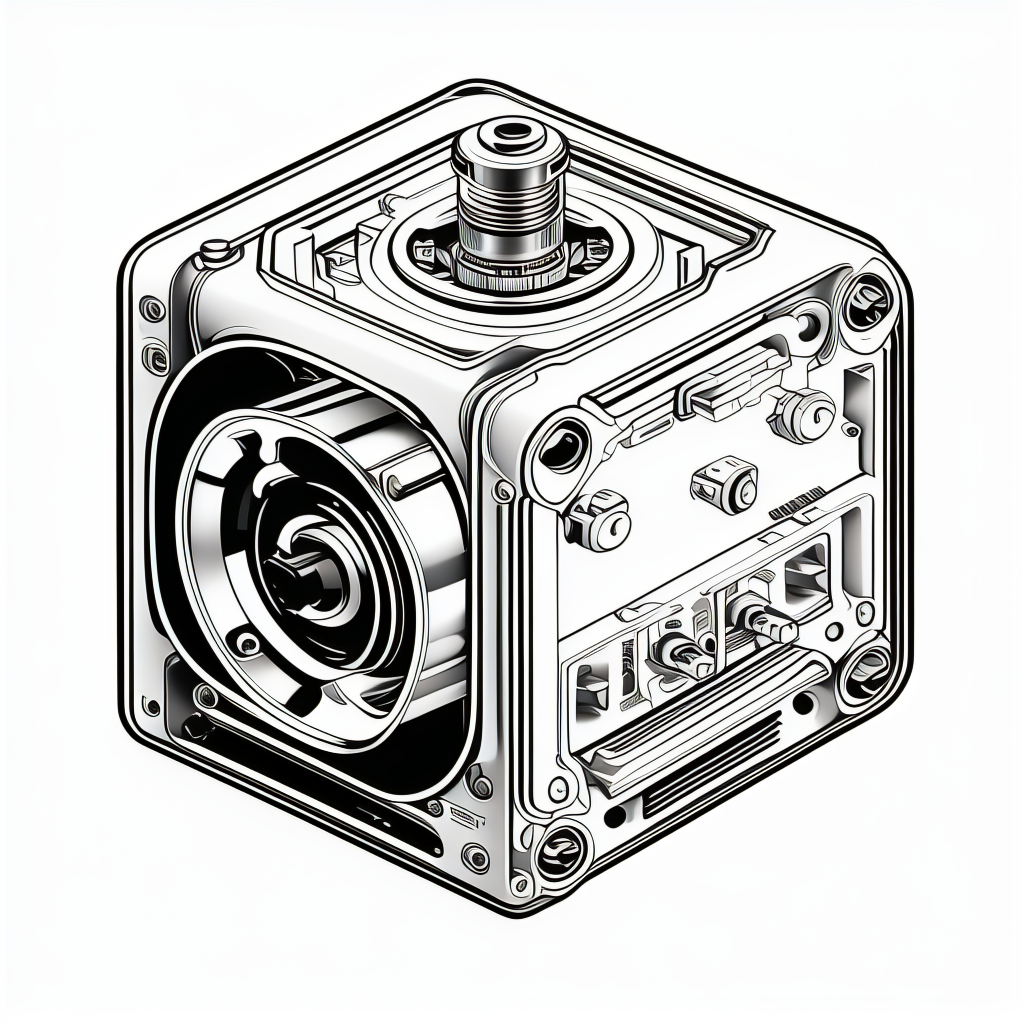
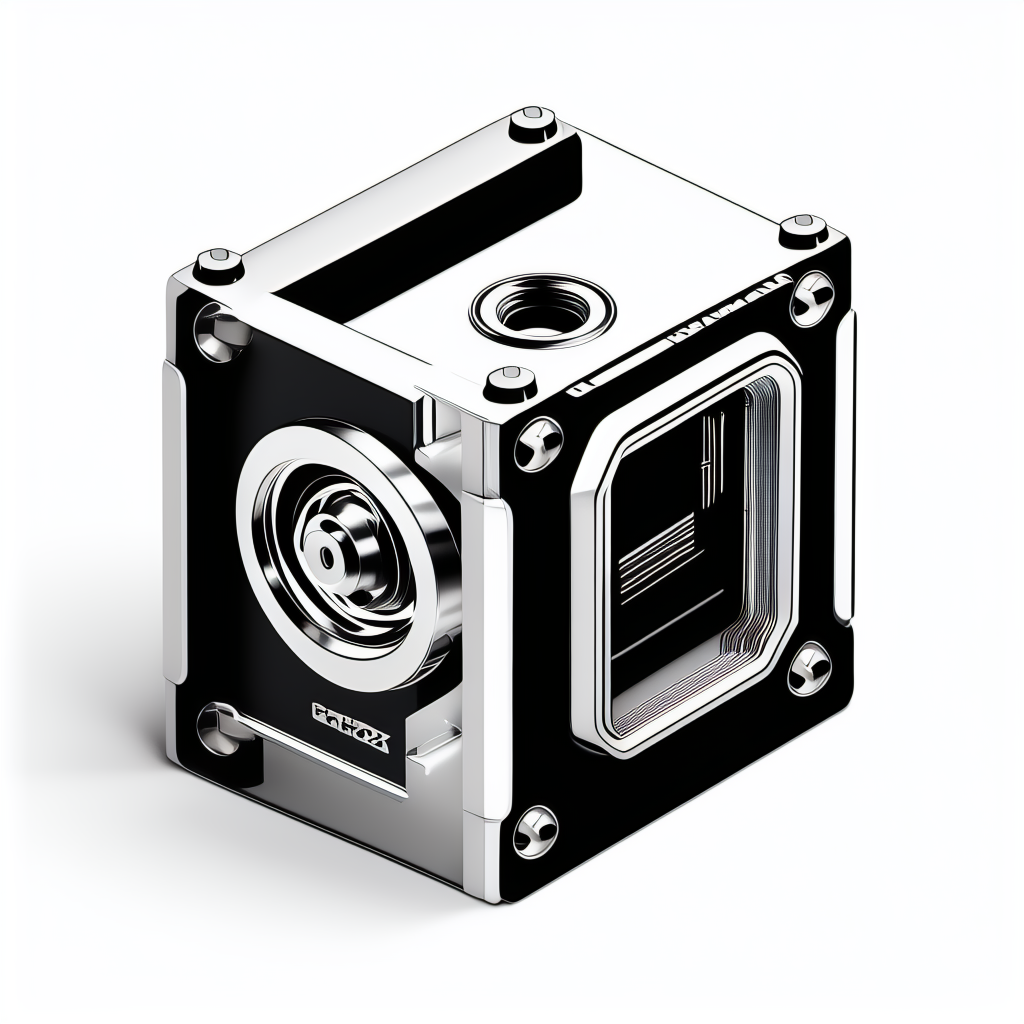
feat: update categories to match vexmotor.com - all Nema sizes with accurate illustrations

diff --git a/src/server/storefront/seed.ts b/src/server/storefront/seed.ts
@@ -15,45 +15,73 @@ function money(amount: number) {
 const categories: StorefrontCategory[] = [
   {
     id: 'cat-1',
-    name: 'Nema 17 Stepper Motor',
-    slug: 'nema-17-stepper-motor',
-    description: 'Compact factory-direct stepper motors for printers, feeders, light automation, and small equipment.',
-    productCount: 59,
+    name: 'Nema 8 Stepper Motor',
+    slug: 'nema-8-stepper-motor',
+    description: 'Ultra-compact 20mm frame stepper motors for precision micro-devices and small automation.',
+    productCount: 6,
   },
   {
     id: 'cat-2',
-    name: 'Nema 23 Stepper Motor',
-    slug: 'nema-23-stepper-motor',
-    description: 'Higher-torque catalog products for CNC systems, tooling, and mid-load industrial axes.',
-    productCount: 35,
+    name: 'Nema 11 Stepper Motor',
+    slug: 'nema-11-stepper-motor',
+    description: 'Compact 28mm frame stepper motors for light-duty positioning and feeder systems.',
+    productCount: 6,
   },
   {
     id: 'cat-3',
-    name: 'Stepper Drivers',
-    slug: 'stepper-drivers',
-    description: 'Matched driver solutions for smooth control, stable microstepping, and reliable daily operation.',
-    productCount: 12,
+    name: 'Nema 14 Stepper Motor',
+    slug: 'nema-14-stepper-motor',
+    description: '35mm frame stepper motors balancing size and torque for desktop CNC and 3D printers.',
+    productCount: 14,
   },
   {
     id: 'cat-4',
-    name: 'Power Supplies',
-    slug: 'power-supplies',
-    description: 'Factory-selected power supplies built to match motor and driver requirements.',
-    productCount: 10,
+    name: 'Nema 16 Stepper Motor',
+    slug: 'nema-16-stepper-motor',
+    description: '39mm frame stepper motors for mid-range automation and precision equipment.',
+    productCount: 8,
   },
   {
     id: 'cat-5',
-    name: 'Linear Motion',
-    slug: 'linear-motion',
-    description: 'Linear actuators and screw-driven motion products for positioning systems and equipment modules.',
-    productCount: 16,
+    name: 'Nema 17 Stepper Motor',
+    slug: 'nema-17-stepper-motor',
+    description: '42mm frame stepper motors - the industry standard for 3D printers, CNC, and robotics.',
+    productCount: 59,
   },
   {
     id: 'cat-6',
-    name: 'Gearboxes',
-    slug: 'gearboxes',
-    description: 'Planetary and right-angle gearbox products matched for stepper and servo motion assemblies.',
-    productCount: 14,
+    name: 'Nema 23 Stepper Motor',
+    slug: 'nema-23-stepper-motor',
+    description: '57mm frame high-torque stepper motors for CNC routers, milling, and heavy automation.',
+    productCount: 35,
+  },
+  {
+    id: 'cat-7',
+    name: 'Nema 24 Stepper Motor',
+    slug: 'nema-24-stepper-motor',
+    description: '60mm frame stepper motors with enhanced torque for industrial motion systems.',
+    productCount: 6,
+  },
+  {
+    id: 'cat-8',
+    name: 'Nema 34 Stepper Motor',
+    slug: 'nema-34-stepper-motor',
+    description: '86mm frame heavy-duty stepper motors for maximum torque industrial applications.',
+    productCount: 13,
+  },
+  {
+    id: 'cat-9',
+    name: 'Stepper Motor Driver',
+    slug: 'stepper-motor-driver',
+    description: 'Matched driver modules for smooth microstepping control and reliable motor operation.',
+    productCount: 4,
+  },
+  {
+    id: 'cat-10',
+    name: 'Power Supply',
+    slug: 'power-supply',
+    description: 'Industrial-grade power supplies optimized for stepper motor and driver systems.',
+    productCount: 10,
   },
 ];
 